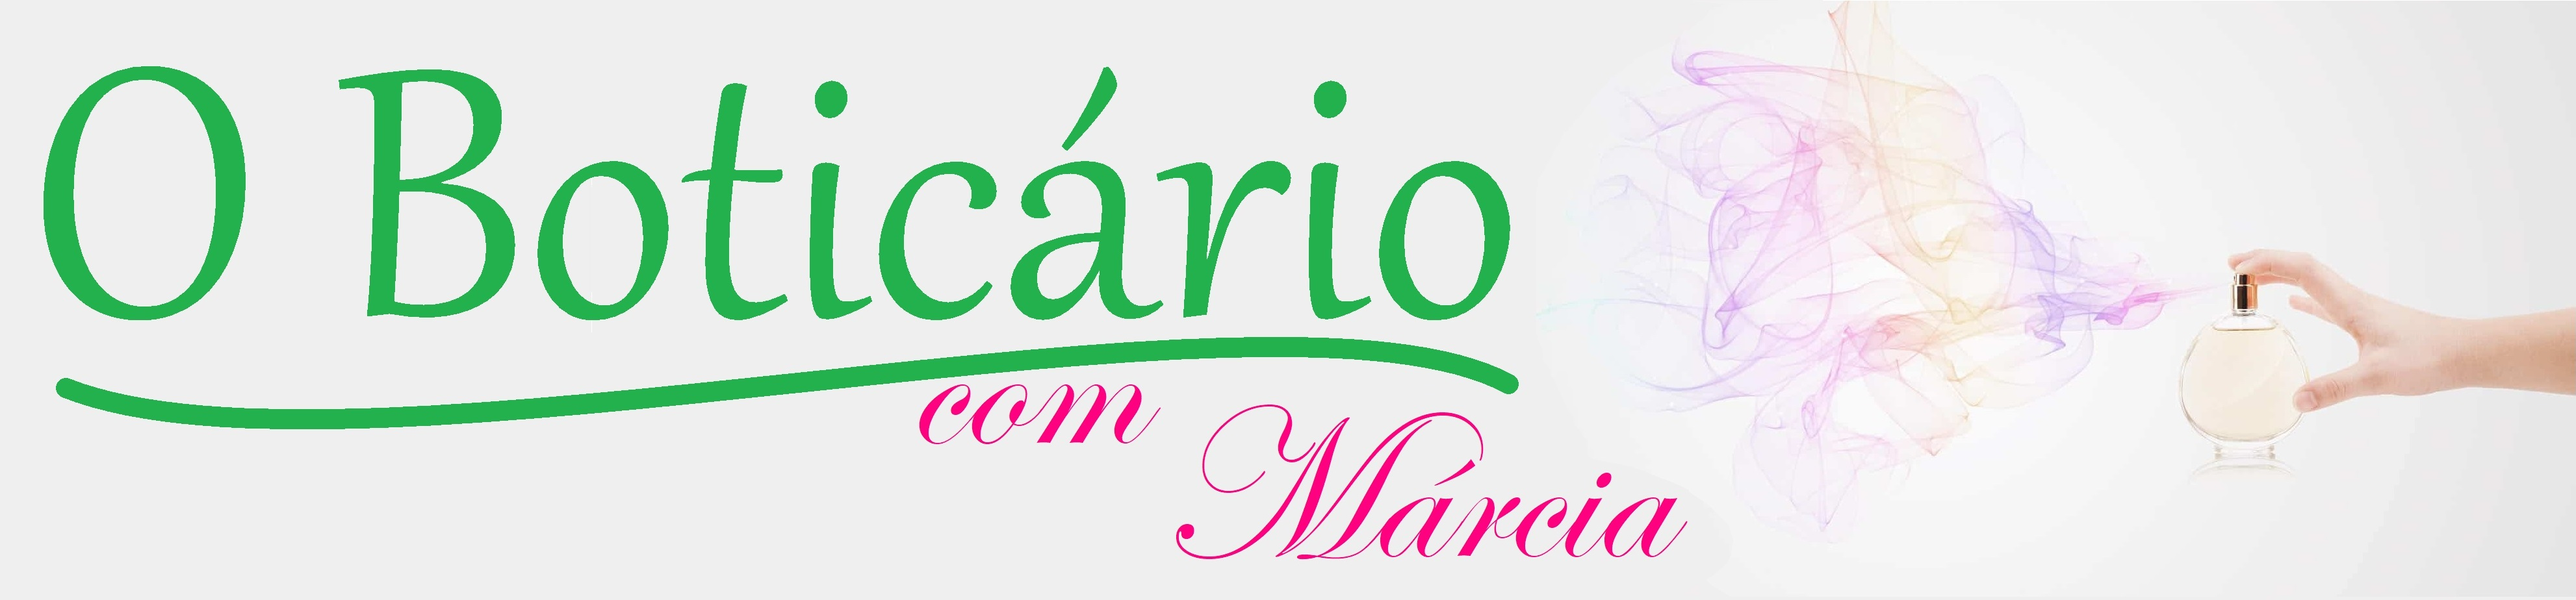
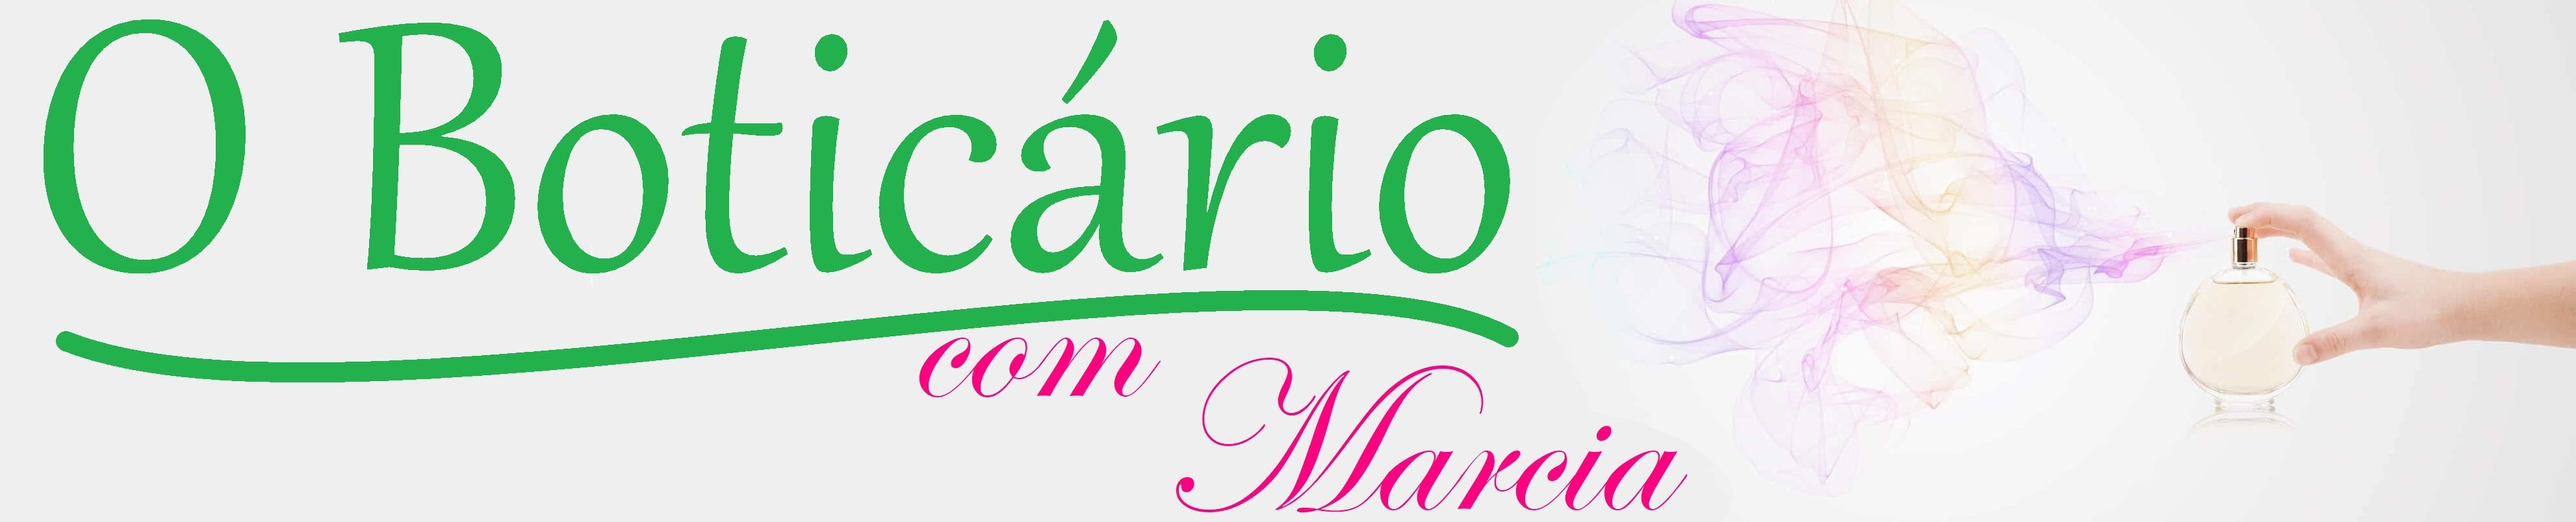
Home quase pronta

diff --git a/index.html b/index.html
@@ -8,18 +8,60 @@
     </head>
     <body>
         <header>
-            <img src="img/capa.jpg" id="capa">
+            <img src="img/capa2.jpg" id="capa">
         </header>
         <div id="menu">
-            <a href="" class="botoes" id="home">Home</a>
-            <a href="" class="botoes" id="perfumes">Perfumes</a>
-            <a href="" class="botoes" id="kits">Kits</a>
-            <a href="" class="botoes" id="cremes">Cremes</a>
+            <button class="botoes" id="home" onclick="teste()">Home</button>
+            <button class="botoes" id="perfumes">Perfumes</button>
+            <button class="botoes" id="kits">Kits</button>
+            <button class="botoes" id="cremes">Cremes</button>
+        </div>
+        <section id="sessao">
+            <div class="slideshow-container">
+                <div class="mySlides fade">
+                <div class="numbertext"></div>
+                <img src="img/p1f.jpg" style="width:100%">
+                <div class="text"></div>
+            </div>
+            
+            <div class="mySlides fade">
+                <div class="numbertext"></div>
+                <img src="img/p2f.jpg" style="width:100%">
+                <div class="text">Caption Two</div>
+            </div>
+            
+            <div class="mySlides fade">
+                <div class="numbertext"></div>
+                <img src="img/p3f.jpg" style="width:100%">
+                <div class="text"></div>
+            </div>
+            
+            <br>
+            
+            <div style="text-align:center">
+              <span class="dot"></span> 
+              <span class="dot"></span> 
+              <span class="dot"></span> 
+            </div>
+        </section>
+
+        <footer id="rodape">
+            <div><img src="img/person.png" id="person"></div>
+            <div>
+                Lorem ipsum dolor sit amet, consectetur adipiscing elit. Nullam sed nulla posuere, mattis sem non, malesuada sapien. Nunc lectus justo, imperdiet ac ultricies quis, rhoncus nec ante. Sed nec felis enim. Integer pretium nunc ipsum, eu euismod massa laoreet in. Sed eleifend convallis purus et vulputate. Donec a consectetur sapien. Donec ultrices non nulla vitae pellentesque. Pellentesque non libero eget ex lacinia ullamcorper at eu nunc.
+                <br><br>
+                Fusce lobortis nec quam vitae ornare. Etiam vulputate, nisl sit amet congue vestibulum, velit odio cursus justo, vitae auctor quam est molestie ligula. Nulla congue sem vitae lacus blandit, ac tempus leo dignissim. Vestibulum purus eros, lacinia quis ornare nec, viverra eget tortor. Aenean interdum neque a diam volutpat, a tempus magna lacinia. In pretium aliquet consectetur. Phasellus eu porttitor eros, nec facilisis odio. Maecenas eleifend tincidunt nibh, quis aliquet nibh pharetra at. Vestibulum orci velit, euismod et ultrices quis, imperdiet nec sapien.
+            </div>
+        </footer>
+        
+        <div id="mySidenav" class="sidenav">
+            <a href="#" id="about">About</a>
+            <a href="#" id="blog">Blog</a>
+            <a href="#" id="projects">Projects</a>
+            <a href="#" id="contact">Contact</a>
         </div>
 
-
-
-
+        
 
 
 
@@ -28,4 +70,5 @@
 
 
     </body>
+    <script src="index.js"></script>
 </html>

diff --git a/index.css b/index.css
@@ -5,7 +5,7 @@ header{
 
 #capa{
     display: block;
-    max-width: 100%; 
+    width: 100%; 
     height: auto;
 }
 
@@ -19,22 +19,157 @@ body{
 }
 
 .botoes{
-    display: inline;
     font-family: BA;
-    font-size: 160%;
-    padding: 1%;
-    margin: 1%;
+    font-size: 130%;
+    border: 1px solid rgb(185, 152, 189);
+    border-radius: 13pt;
+    padding-left: 12px;
+    padding-right: 12px;
+    margin: 0.5%;
     color: rgb(185, 152, 189);
+    transition-duration: 0.5s;
+    cursor: pointer;
 }
 
 #menu{
     display: flex;
-    flex-direction: row;
     justify-content: center;
+    width: 100%;
+    background-color:  rgb(185, 152, 189);
 }
 
 .botoes:hover{
-    background: url(img/fundoNav.jpg);
+    font-size: 170%;
+    color: seashell;
+    background: rgb(185, 152, 189);
     background-repeat:no-repeat;
     background-size:100% 100%;
+    text-decoration: none;
 }
+
+
+.botoes:link{
+    text-decoration: none;
+}
+
+/* Slideshow container */
+.slideshow-container {
+    position: relative;
+    margin: auto;
+}
+
+@media only screen and (max-width: 500px){
+    .slideshow-container{
+        width: 100%;
+    }
+}
+
+@media only screen and (min-width: 501px){
+    .slideshow-container{
+        width: 80%;
+    }
+}
+  
+/* Caption text */
+.text {
+    color: #f2f2f2;
+    font-size: 15px;
+    padding: 8px 12px;
+    position: absolute;
+    bottom: 8px;
+    width: 100%;
+    text-align: center;
+}
+  
+/* Number text (1/3 etc) */
+.numbertext {
+    color: #f2f2f2;
+    font-size: 12px;
+    padding: 8px 12px;
+    position: absolute;
+    top: 0;
+}
+  
+/* The dots/bullets/indicators */
+.dot {
+    height: 15px;
+    width: 15px;
+    margin: 0 2px;
+    background-color: #bbb;
+    border-radius: 50%;
+    display: inline-block;
+    transition: background-color 0.6s ease;
+}
+  
+.active {
+    background-color: #717171;
+}
+  
+/* Fading animation */
+.fade {
+    -webkit-animation-name: fade;
+    -webkit-animation-duration: 1.5s;
+    animation-name: fade;
+    animation-duration: 1.5s;
+}
+  
+@keyframes fade {
+    from {opacity: .4} 
+    to {opacity: 1}
+}
+  
+ /* On smaller screens, decrease text size */
+@media only screen and (max-width: 300px) {
+    .text {font-size: 11px}
+}
+
+#person{
+    padding-right: 3%;
+    float: left;
+    width: 20%;
+}
+
+#rodape{
+    margin-right: 15%;
+    margin-left: 15%;
+    margin-top: 50px;
+    margin-bottom: 50px;
+    font-family: arial;
+    font-size: 90%;
+}
+
+#mySidenav a {
+    position: absolute;
+    left: -80px;
+    transition: 0.3s;
+    padding: 15px;
+    width: 100px;
+    text-decoration: none;
+    font-size: 20px;
+    color: white;
+    border-radius: 0 5px 5px 0;
+  }
+  
+  #mySidenav a:hover {
+    left: 0;
+  }
+  
+  #about {
+    bottom: 1px;
+    background-color: #4CAF50;
+  }
+  
+  #blog {
+    bottom: 60px;
+    background-color: #2196F3;
+  }
+  
+  #projects {
+    bottom: 120px;
+    background-color: #f44336;
+  }
+  
+  #contact {
+    bottom: 180px;
+    background-color: #555
+  }

diff --git a/index.js b/index.js
@@ -1,0 +1,23 @@
+var slideIndex = 0;
+showSlides();
+
+function showSlides() {
+  var i;
+  var slides = document.getElementsByClassName("mySlides");
+  var dots = document.getElementsByClassName("dot");
+  for (i = 0; i < slides.length; i++) {
+    slides[i].style.display = "none";  
+  }
+  slideIndex++;
+  if (slideIndex > slides.length) {slideIndex = 1}    
+  for (i = 0; i < dots.length; i++) {
+    dots[i].className = dots[i].className.replace(" active", "");
+  }
+  slides[slideIndex-1].style.display = "block";  
+  dots[slideIndex-1].className += " active";
+  setTimeout(showSlides, 4000); // Change image every 2 seconds
+}
+
+function teste(){
+    document.getElementById("sessao").innerHTML = "<p>catarina</p><p>caqta</p>"
+}
